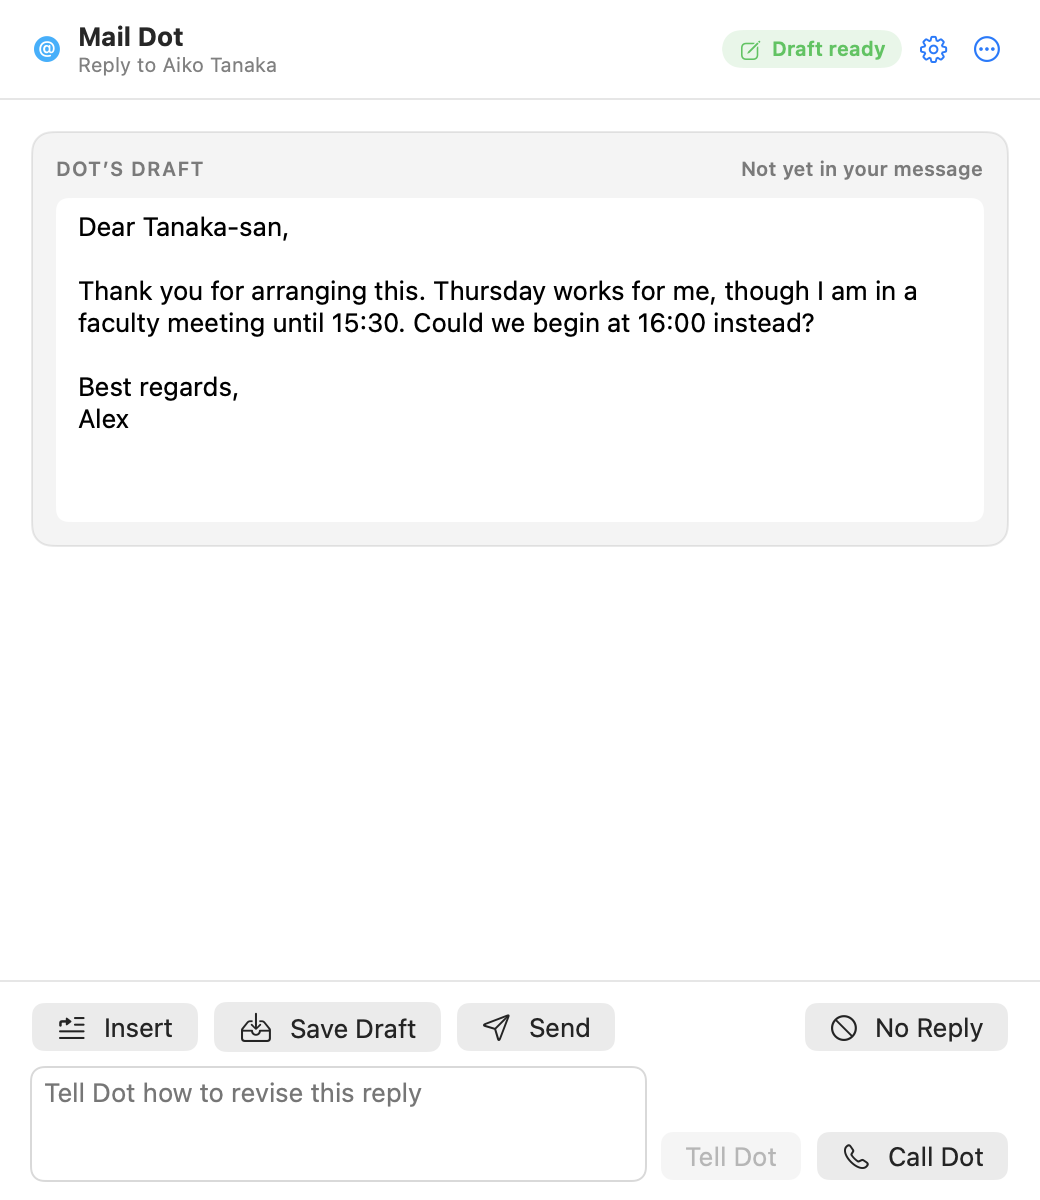
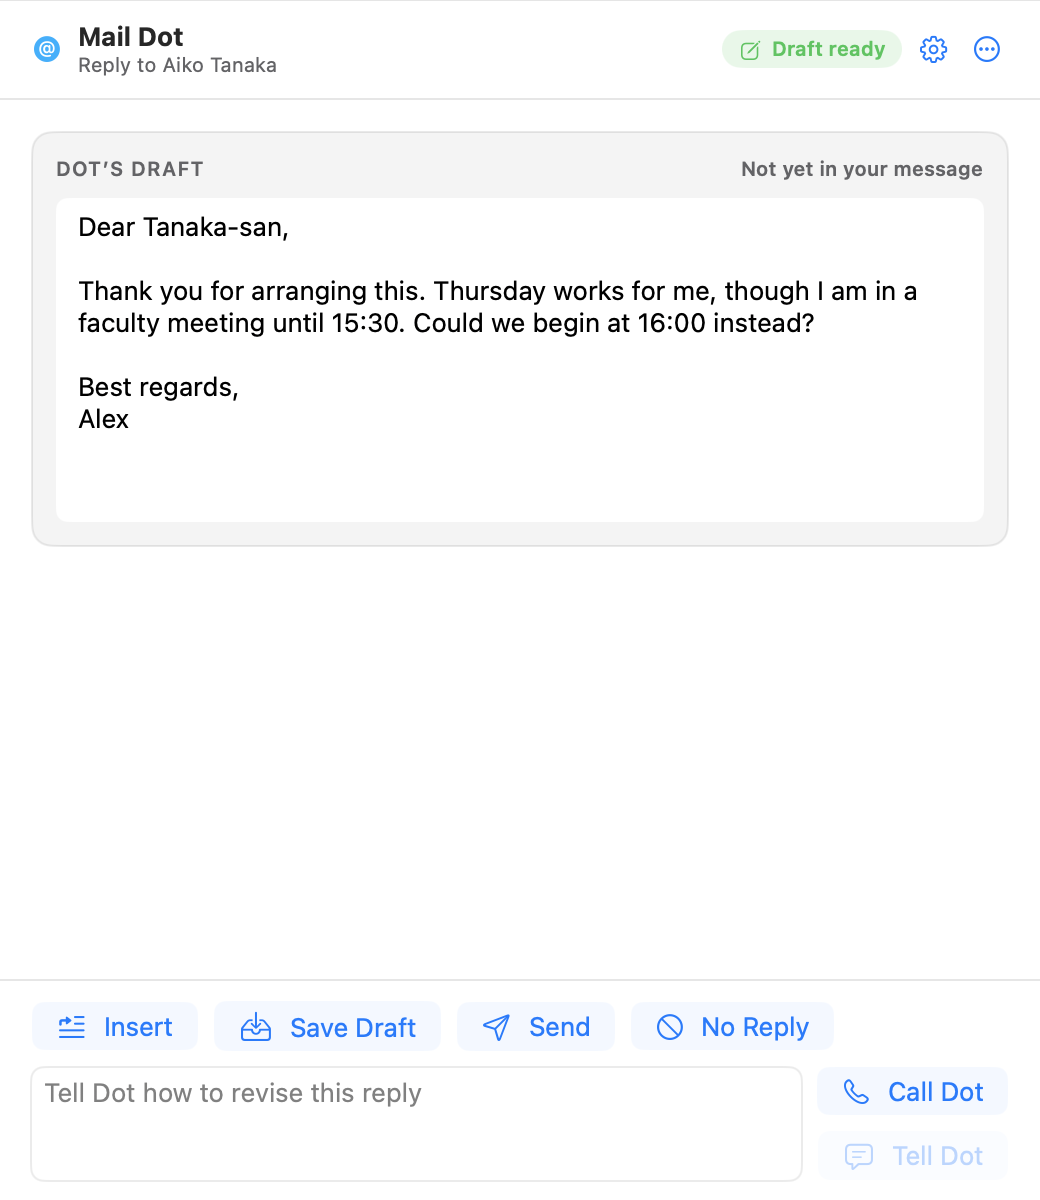
README: the reply panel as of 0.4.199, and Replied on answered messages
New renders of the reply panel with a draft and with a question, from invented messages. The text describes the revised layout, Command-Return for Send, and the Replied banner.

diff --git a/README.md b/README.md
@@ -4,7 +4,7 @@ Mail Dot is an extension for Apple Mail on the Mac that brings Dot, the assistan
 
 Hooner LLC publishes Mail Dot's source code under the PolyForm Noncommercial License 1.0.0. Anyone may use, study and modify it for noncommercial purposes, and commercial use requires a licence from Hooner LLC. The first public release is in testing, and the installer will appear on the [Releases page](https://github.com/JGKarlin/maildot/releases) when that testing ends.
 
-<p align="center"><img src="docs/images/reply-draft-ready.png" width="520" alt="Mail Dot's panel in a reply window, showing a draft that Dot has written, with buttons to insert it, save it as a draft, send it, or decline to reply."></p>
+<p align="center"><img src="docs/images/reply-draft-ready.png" width="520" alt="Mail Dot's panel in a reply window, showing a draft that Dot has written, with buttons to insert it, save it as a draft, send it, or decline to reply, and beneath them a field for telling Dot how to revise it beside Call Dot and Tell Dot."></p>
 
 ## Why Mail Dot exists
 
@@ -90,7 +90,7 @@ Search by Meaning asks for Full Disk Access when the first box is ticked, for on
 
 ### Reports on threads
 
-For each message it handles, Dot reports on the thread: how it began, how it developed, what has been decided, what remains open and who must act. A banner on the message in Mail gives the state in a word or two, such as "Draft ready", "Question for you" or "No reply needed", and the Mail Dot window shows the full report. The window offers three layouts, named Briefing, Storyline and Ledger.
+For each message it handles, Dot reports on the thread: how it began, how it developed, what has been decided, what remains open and who must act. A banner on the message in Mail gives the state in a word or two, such as "Draft ready", "Question for you" or "No reply needed", and the Mail Dot window shows the full report. Once the reader has answered a message, whether through Mail Dot, by hand in Mail or from another device, its banner reads "Replied". Mail the reader wrote carries no banner. The window offers three layouts, named Briefing, Storyline and Ledger.
 
 The report turns a long thread into a short account of where a matter stands, and it tracks the commitments that mail creates. When a message sets a meeting, the report shows it with a button that adds it to the calendar.
 
@@ -104,7 +104,7 @@ Mail Dot appears in three places in Mail.
 
 On a message, a banner states what Dot has done with it. The banner's button, Open Mail Dot, opens the report on that message and its thread. From the report the reader can ask for a draft, open a finished draft in a Mail reply, discard one, mark a message as needing no reply, start a voice call with Dot about it, or open Ask Dot.
 
-In a reply window, the Mail Dot button in the toolbar opens the panel shown at the top of this page. Insert places Dot's draft at the head of the reply and leaves the quoted mail untouched. Save Draft places it and saves the message to Drafts. Send places it and asks for one confirmation that names the recipients, after which Mail sends the message. No Reply dismisses the draft. The field beneath takes an instruction for revising the draft, and Call Dot opens a voice call for the same purpose.
+In a reply window, the Mail Dot button in the toolbar opens the panel shown at the top of this page. Insert places Dot's draft at the head of the reply and leaves the quoted mail untouched. Save Draft places it and saves the message to Drafts. Send places it and asks for one confirmation that names the recipients, after which Mail sends the message. No Reply dismisses the draft. Command-Return chooses Send. The wide field beneath takes an instruction for revising the draft, which Tell Dot sends, and Call Dot above it opens a voice call for the same purpose.
 
 Anywhere in Mail, Shift-Option-Command-F opens Ask Dot.
 
